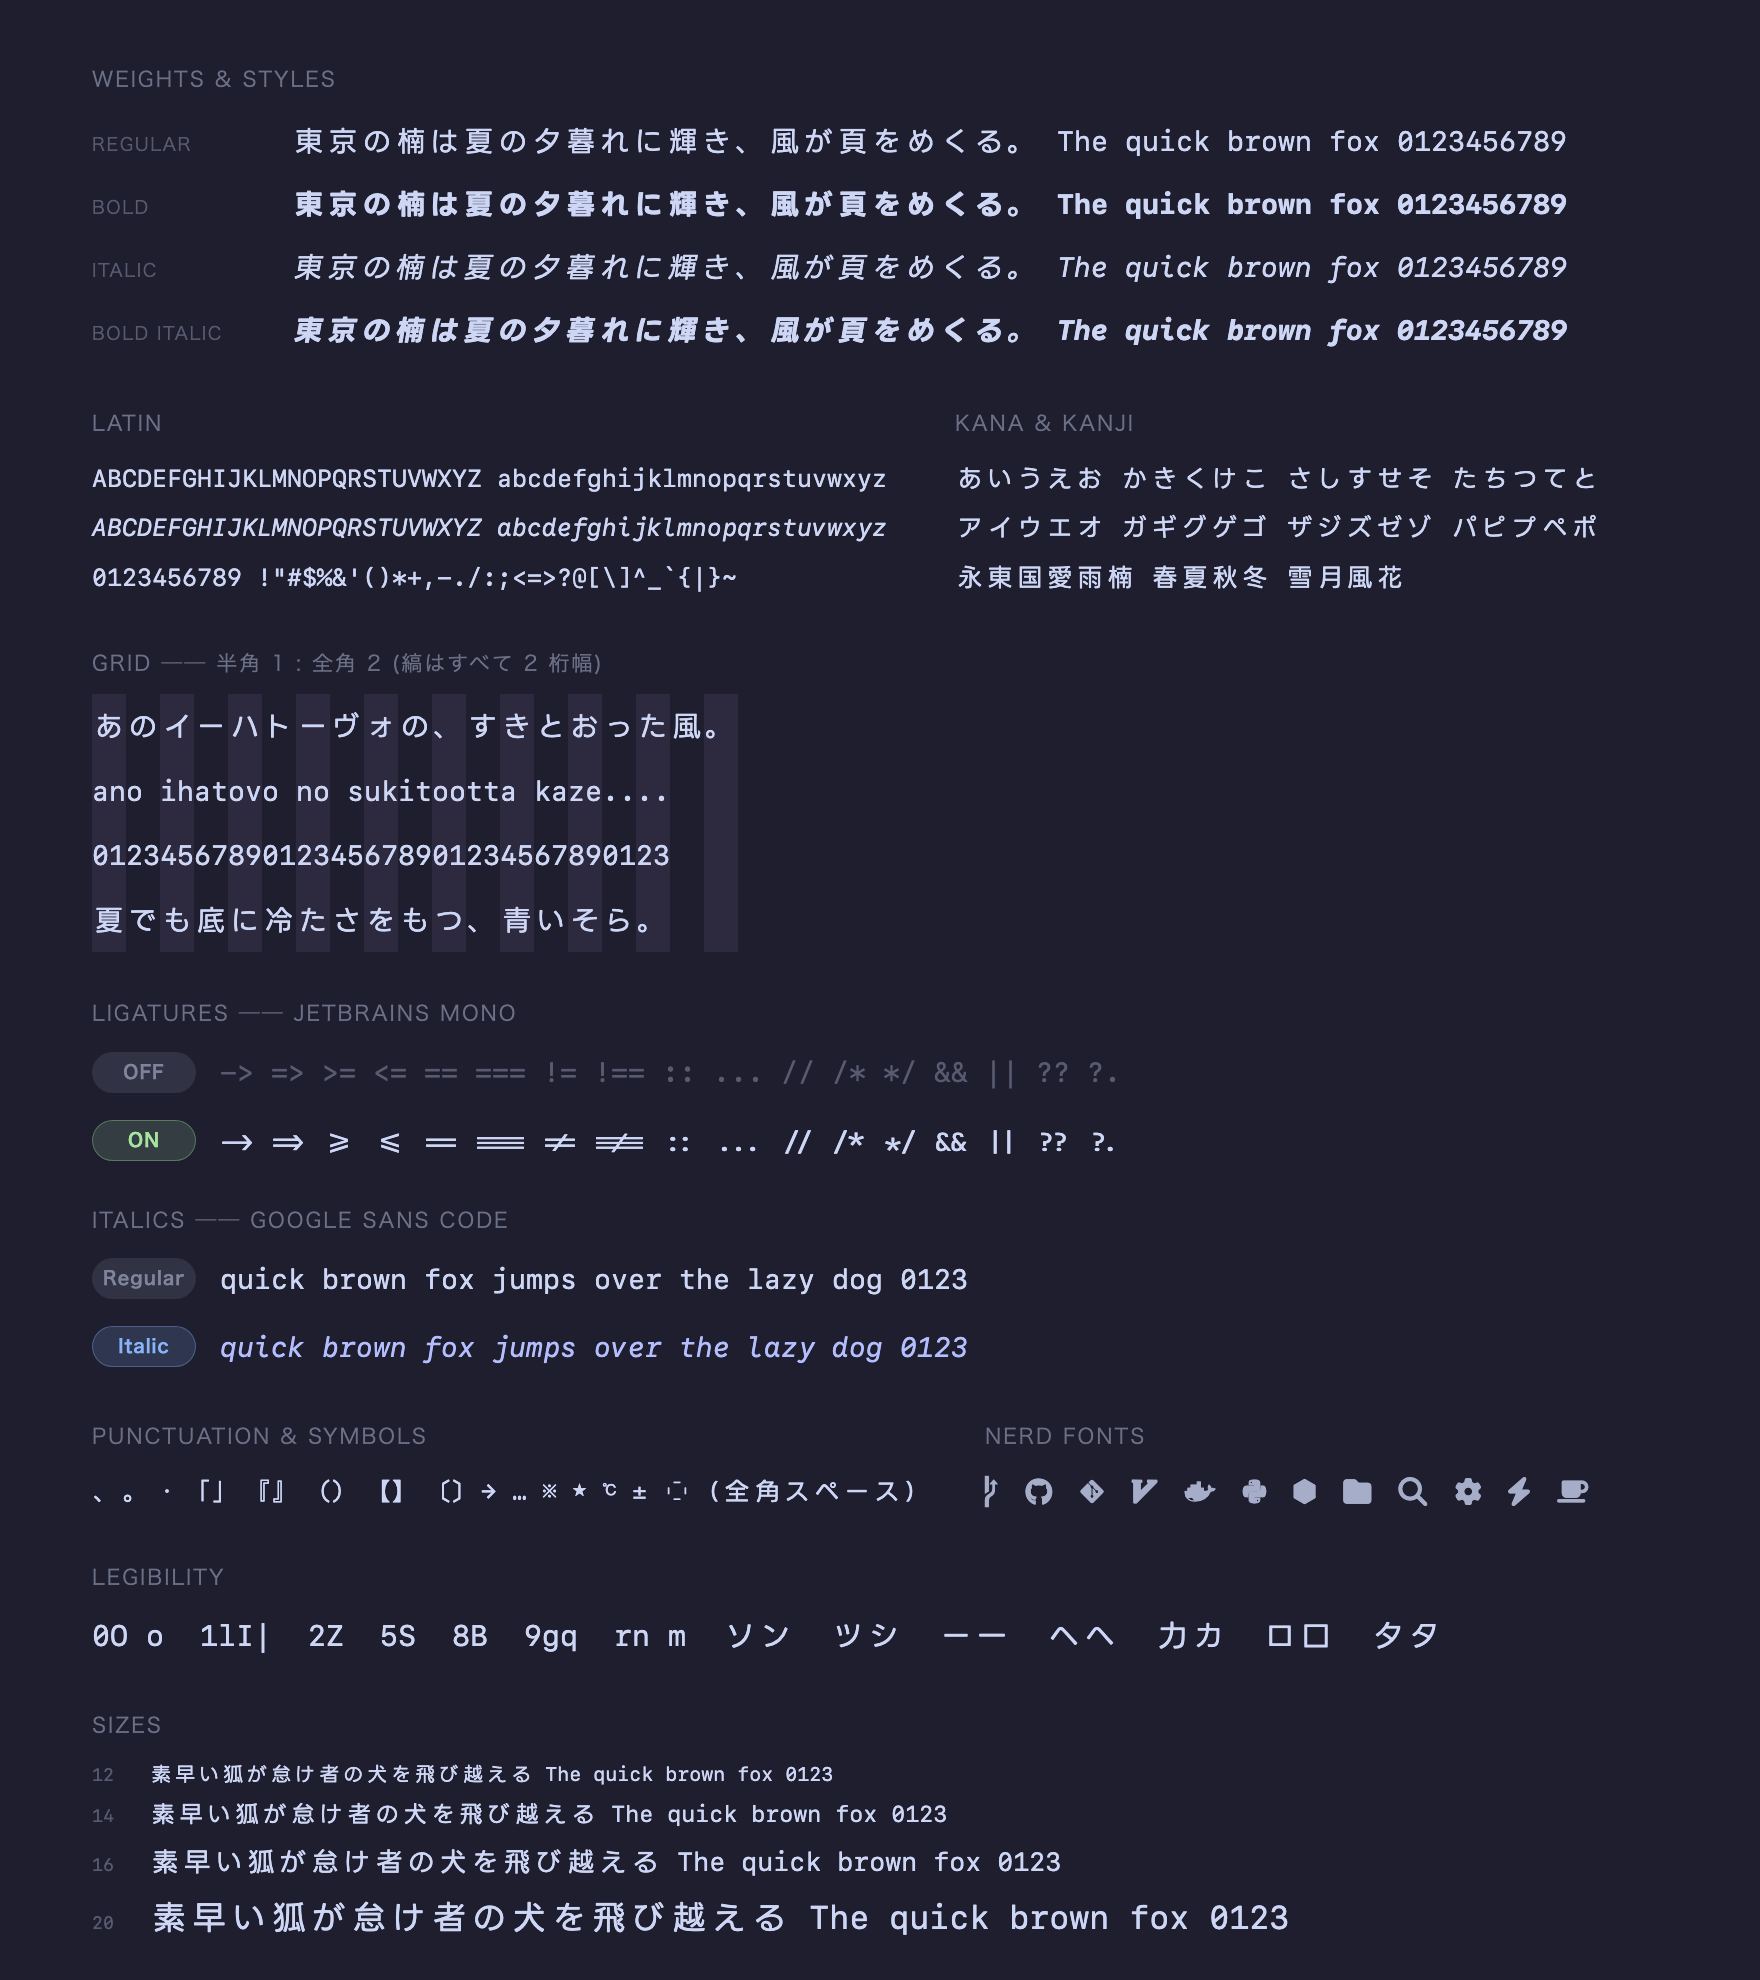
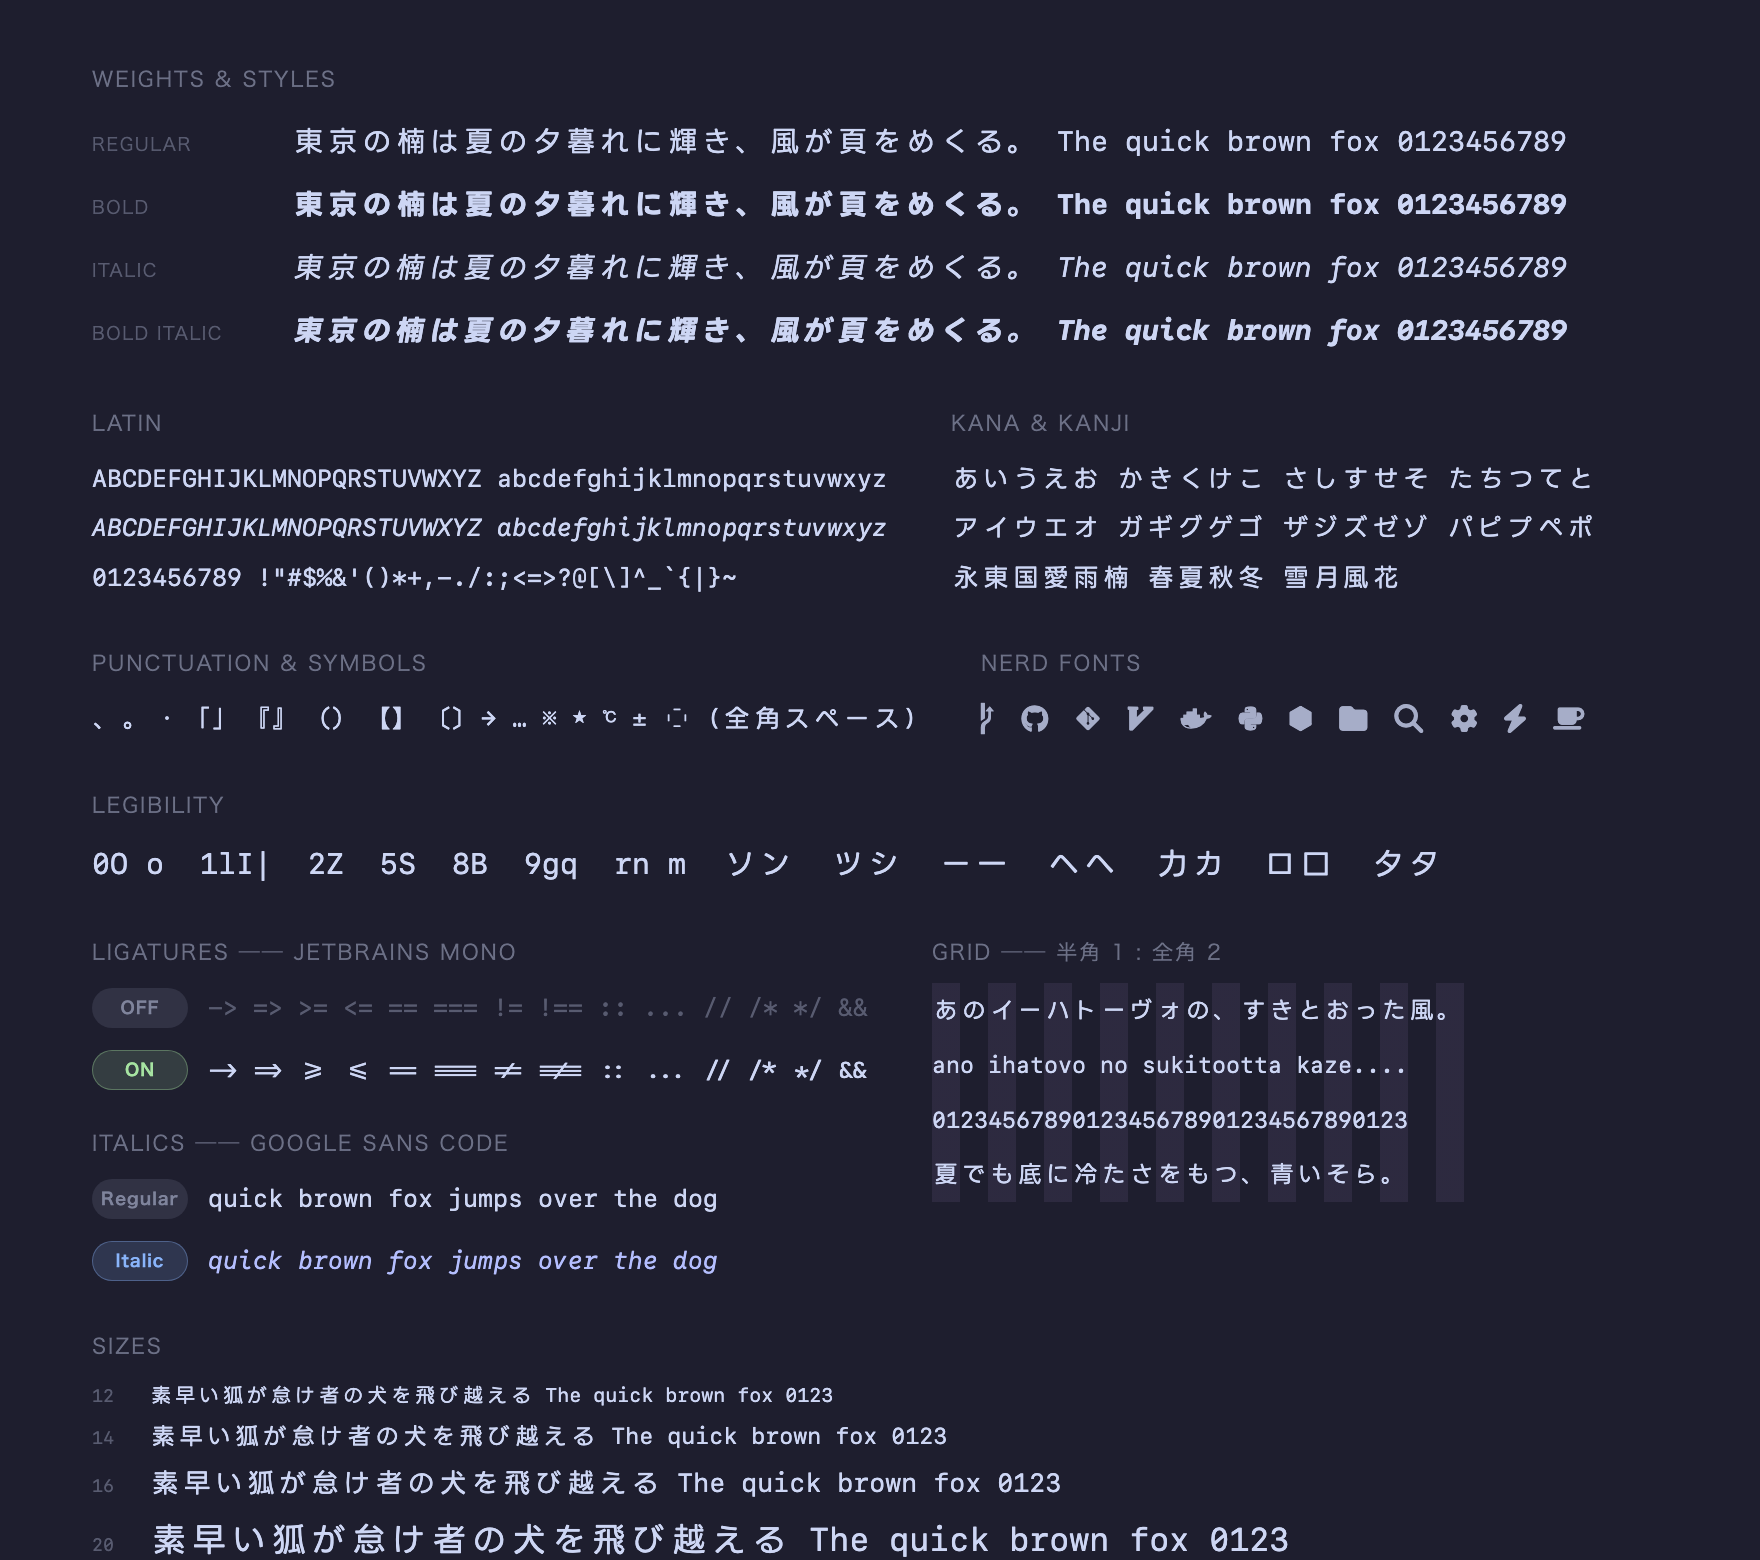
Pair ligatures/italics with the grid demo above Sizes
Two-column row right above Sizes: ligature and italic comparisons on
the left (sequence trimmed to &&), the striped grid demo on the right.

diff --git a/docs/images/src/specimen.html b/docs/images/src/specimen.html
@@ -7,7 +7,7 @@
 @font-face { font-family:"KMBI"; src:url("../../../dist/KusunokiMono-BoldItalic.otf"); }
 * { margin:0; padding:0; box-sizing:border-box; }
 body {
-  width:1760px; height:1980px; background:#1e1e2e; color:#cdd6f4;
+  width:1760px; height:1560px; background:#1e1e2e; color:#cdd6f4;
   padding:64px 92px; font-family:"KM", monospace; overflow:hidden;
 }
 .sec { margin-bottom:46px; }
@@ -26,28 +26,28 @@ pre { font-family:inherit; white-space:pre; font-feature-settings:"calt" on; fon
 .fi { font-family:"KMI", monospace; }
 .fbi { font-family:"KMBI", monospace; }
 .it { font-family:"KMI", monospace; }
-.cols { display:flex; gap:68px; align-items:flex-start; }
+.cols { display:flex; gap:64px; align-items:flex-start; }
+.punct pre { font-size:30px; }
+.leg pre { font-size:36px; line-height:1.55; }
+.icons pre { font-size:31px; letter-spacing:6px; color:#a6adc8; line-height:1.6; }
 .grid pre {
-  display:inline-block; font-size:34px; line-height:1.9;
+  display:inline-block; font-size:28px; line-height:1.95;
   background:repeating-linear-gradient(90deg, rgba(203,166,247,.085) 0 2ch, transparent 2ch 4ch);
 }
-.lrow { display:flex; align-items:center; gap:24px; }
+.lrow { display:flex; align-items:center; gap:20px; }
 .lrow + .lrow { margin-top:12px; }
 .badge {
-  font-family:-apple-system,sans-serif; font-size:18px; font-weight:600;
-  letter-spacing:1px; width:104px; text-align:center; padding:6px 0;
+  font-family:-apple-system,sans-serif; font-size:17px; font-weight:600;
+  letter-spacing:1px; width:96px; text-align:center; padding:6px 0;
   border-radius:999px; border:1px solid transparent; flex:none;
 }
 .b-off, .b-reg { background:#313244; color:#7f849c; }
 .b-on { background:rgba(166,227,161,.16); color:#a6e3a1; border-color:rgba(166,227,161,.35); }
 .b-it { background:rgba(137,180,250,.16); color:#89b4fa; border-color:rgba(137,180,250,.35); }
-.ligs pre { font-size:34px; }
+.ligs pre { font-size:30px; }
 .off pre { font-feature-settings:"calt" 0; color:#585b70; }
 .itl pre { font-family:"KMI", monospace; color:#b4befe; }
-.subsec + .subsec { margin-top:36px; }
-.punct pre { font-size:30px; }
-.leg pre { font-size:36px; line-height:1.55; }
-.icons pre { font-size:31px; letter-spacing:6px; color:#a6adc8; line-height:1.6; }
+.subsec + .subsec { margin-top:34px; }
 .sizes pre { line-height:1.55; }
 .slabel { display:inline-block; width:2.6em; color:#585b70; font-size:22px; }
 </style>
@@ -78,27 +78,6 @@ pre { font-family:inherit; white-space:pre; font-feature-settings:"calt" on; fon
   </div>
 </div>
 
-<div class="sec grid">
-  <div class="h">Grid ── 半角 1 : 全角 2 (縞はすべて 2 桁幅)</div>
-  <pre>あのイーハトーヴォの、すきとおった風。
-ano ihatovo no sukitootta kaze....
-0123456789012345678901234567890123
-夏でも底に冷たさをもつ、青いそら。</pre>
-</div>
-
-<div class="sec ligs">
-  <div class="subsec">
-    <div class="h">Ligatures ── JetBrains Mono</div>
-    <div class="lrow off"><div class="badge b-off">OFF</div><pre>-> => >= <= == === != !== :: ... // /* */ && || ?? ?.</pre></div>
-    <div class="lrow"><div class="badge b-on">ON</div><pre>-> => >= <= == === != !== :: ... // /* */ && || ?? ?.</pre></div>
-  </div>
-  <div class="subsec">
-    <div class="h">Italics ── Google Sans Code</div>
-    <div class="lrow"><div class="badge b-reg">Regular</div><pre>quick brown fox jumps over the lazy dog 0123</pre></div>
-    <div class="lrow itl"><div class="badge b-it">Italic</div><pre>quick brown fox jumps over the lazy dog 0123</pre></div>
-  </div>
-</div>
-
 <div class="sec">
   <div class="cols">
     <div class="punct">
@@ -115,6 +94,30 @@ ano ihatovo no sukitootta kaze....
 <div class="sec leg">
   <div class="h">Legibility</div>
   <pre>0O o  1lI|  2Z  5S  8B  9gq  rn m  ソン  ツシ  ー一  ヘへ  力カ  ロ口  夕タ</pre>
+</div>
+
+<div class="sec">
+  <div class="cols">
+    <div class="ligs">
+      <div class="subsec">
+        <div class="h">Ligatures ── JetBrains Mono</div>
+        <div class="lrow off"><div class="badge b-off">OFF</div><pre>-> => >= <= == === != !== :: ... // /* */ &&</pre></div>
+        <div class="lrow"><div class="badge b-on">ON</div><pre>-> => >= <= == === != !== :: ... // /* */ &&</pre></div>
+      </div>
+      <div class="subsec">
+        <div class="h">Italics ── Google Sans Code</div>
+        <div class="lrow"><div class="badge b-reg">Regular</div><pre>quick brown fox jumps over the dog</pre></div>
+        <div class="lrow itl"><div class="badge b-it">Italic</div><pre>quick brown fox jumps over the dog</pre></div>
+      </div>
+    </div>
+    <div class="grid">
+      <div class="h">Grid ── 半角 1 : 全角 2</div>
+      <pre>あのイーハトーヴォの、すきとおった風。
+ano ihatovo no sukitootta kaze....
+0123456789012345678901234567890123
+夏でも底に冷たさをもつ、青いそら。</pre>
+    </div>
+  </div>
 </div>
 
 <div class="sec sizes">

diff --git a/docs/images/src/README.md b/docs/images/src/README.md
@@ -6,7 +6,7 @@ Rendered with the built font. After `make build`, regenerate with:
 CHROME="/Applications/Google Chrome.app/Contents/MacOS/Google Chrome"
 cd docs/images/src
 "$CHROME" --headless=new --hide-scrollbars --window-size=1760,500  --screenshot=../hero.png     hero.html
-"$CHROME" --headless=new --hide-scrollbars --window-size=1760,1980 --screenshot=../specimen.png specimen.html
+"$CHROME" --headless=new --hide-scrollbars --window-size=1760,1560 --screenshot=../specimen.png specimen.html
 ```
 
 `editor-sample.py` is not a page: open it in a real editor and screenshot it